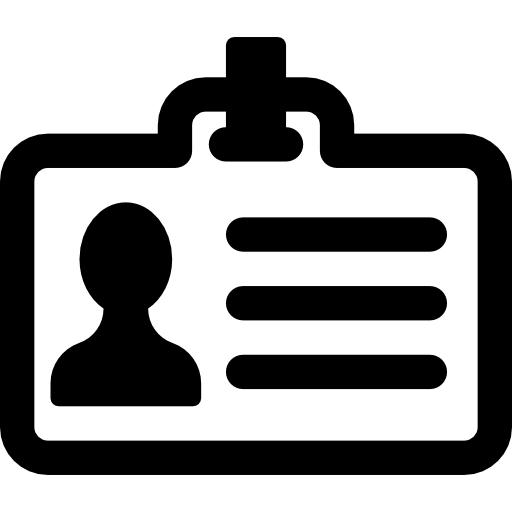
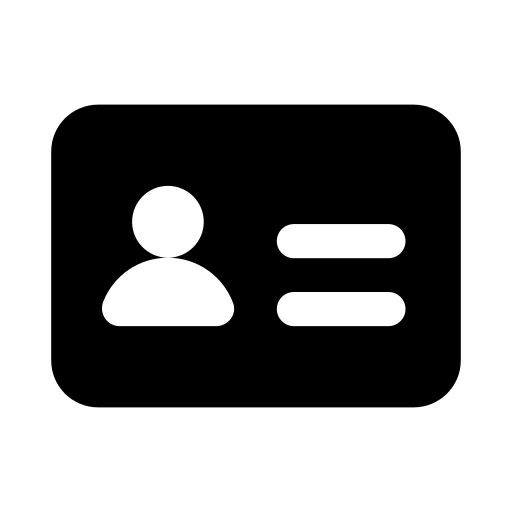
Criar página de senhas

diff --git a/Views/SenhasPage.xaml b/Views/SenhasPage.xaml
@@ -4,14 +4,40 @@
     xmlns="http://schemas.microsoft.com/dotnet/2021/maui"
     xmlns:x="http://schemas.microsoft.com/winfx/2009/xaml"
     Title="Senhas">
-    <VerticalStackLayout Spacing="20" VerticalOptions="Center">
+    <VerticalStackLayout Margin="10" Spacing="20">
 
         <Image Margin="0,50,0,0" Source="dotnet_bot.svg" />
 
-        <Label FontSize="Title" Text="Preencher automaticamente senhas e muito mais" />
+        <Label
+            FontSize="Subtitle"
+            HorizontalTextAlignment="Center"
+            Text="Preencher automaticamente senhas e muito mais"
+            WidthRequest="230" />
 
-        <Label Text="As senhas e outros dados salvos Authenticator seräo armazenados com seguranqa no conta Microsoft e sincronizados em todos os seus dispositivos conectados." />
+        <Label
+            FontSize="Small"
+            HorizontalTextAlignment="Center"
+            Text="As senhas e outros dados salvos Authenticator serão armazenados com seguranqa no conta Microsoft e sincronizados em todos os seus dispositivos conectados."
+            TextColor="Gray"
+            WidthRequest="250" />
 
-        <Button Text="Entrar com a conta da microsoft" />
+        <Grid>
+
+
+            <Button
+                Padding="20,0,0,0"
+                BackgroundColor="#0376dd"
+                FontAttributes="Bold"
+                FontSize="10"
+                Text="Entrar com a conta da microsoft" />
+
+            <Image
+                Margin="0,0,200,0"
+                HorizontalOptions="Center"
+                Source="microsoft.png"
+                WidthRequest="30" />
+
+        </Grid>
+
     </VerticalStackLayout>
 </ContentPage>

diff --git a/Views/IDsVerificadosPage.xaml b/Views/IDsVerificadosPage.xaml
@@ -1,12 +1,13 @@
 <?xml version="1.0" encoding="utf-8" ?>
-<ContentPage xmlns="http://schemas.microsoft.com/dotnet/2021/maui"
-             xmlns:x="http://schemas.microsoft.com/winfx/2009/xaml"
-             x:Class="Clone.Microsoft.Authenticator.Views.IDsVerificadosPage"
-             Title="IDsVerificadosPage">
+<ContentPage
+    x:Class="Clone.Microsoft.Authenticator.Views.IDsVerificadosPage"
+    xmlns="http://schemas.microsoft.com/dotnet/2021/maui"
+    xmlns:x="http://schemas.microsoft.com/winfx/2009/xaml"
+    Title="IDs Verificados">
     <VerticalStackLayout>
-        <Label 
+        <Label
+            HorizontalOptions="Center"
             Text="Welcome to .NET MAUI!"
-            VerticalOptions="Center" 
-            HorizontalOptions="Center" />
+            VerticalOptions="Center" />
     </VerticalStackLayout>
 </ContentPage>

diff --git a/AppShell.xaml b/AppShell.xaml
@@ -5,11 +5,13 @@
     xmlns:x="http://schemas.microsoft.com/winfx/2009/xaml"
     xmlns:local="clr-namespace:Clone.Microsoft.Authenticator"
     xmlns:views="clr-namespace:Clone.Microsoft.Authenticator.Views"
-    Shell.BackgroundColor="#0376dd"
-    Shell.FlyoutBehavior="Disabled">
+    x:Name="appShellApp"
+    BackgroundColor="#0376dd"
+    Shell.TabBarTitleColor="#0376dd">
 
 
-    <TabBar>
+
+    <TabBar x:Name="tabBarApp" PropertyChanged="tabBarApp_PropertyChanged">
         <Tab Title="Authenticator" Icon="botao_home.png">
             <ShellContent ContentTemplate="{DataTemplate views:AuthenticatorPage}" />
         </Tab>

diff --git a/AppShell.xaml.cs b/AppShell.xaml.cs
@@ -2,8 +2,43 @@
 
 public partial class AppShell : Shell
 {
-	public AppShell()
-	{
-		InitializeComponent();
-	}
+    public AppShell()
+    {
+        InitializeComponent();
+    }
+
+    private void tabBarApp_PropertyChanged(object sender, System.ComponentModel.PropertyChangedEventArgs e)
+    {
+        var listener = sender as TabBar;
+
+        int indexCurrentItem = listener.Items.IndexOf(listener.CurrentItem);
+
+        for (var index = 0; index < listener.Items.Count; index++)
+        {
+            string title = listener.Items[index].Title;
+
+            string iconName = GetIconByTitle(title);
+
+            if (index == indexCurrentItem && listener.IsEnabled && title != "IDs Verificados")
+            {
+                listener.Items[indexCurrentItem].Icon = $"{iconName}_selected.png";
+
+                continue;
+            }
+
+            listener.Items[index].Icon = $"{iconName}.png";
+        }
+    }
+
+    private static string GetIconByTitle(string tilePage)
+    {
+        return tilePage switch
+        {
+            "Senhas" => "chave_inteligente",
+            "Endereços" => "pointer",
+            "Pagamentos" => "credit_card",
+            "IDs Verificados" => "big_id_card",
+            _ => "botao_home",
+        };
+    }
 }

diff --git a/Readme.md b/Readme.md
@@ -1,8 +1,8 @@
-# Clone do aplicativo do microsoft authenticator
+# .NET MAUI Clone do aplicativo do microsoft authenticator
 
 ## Todo: 
 
-⚠ Barra de navegação
+## Barra de navegação
 
 # Telas
 	- Authenticator
